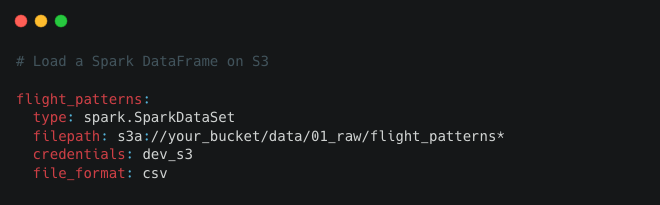
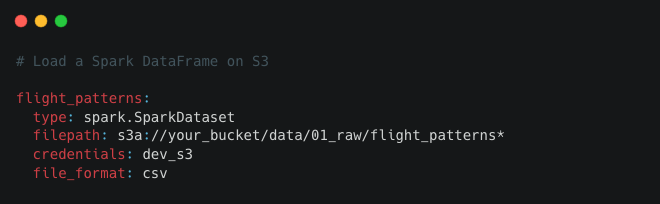
Update mention of `SparkDataSet` to `SparkDataset` in data catalog image (#167)
* Update data catalog image with SparkDataset

* Update link (I now get how this works 😅)

---------

diff --git a/modules/index/features/features-content.tsx b/modules/index/features/features-content.tsx
@@ -27,7 +27,7 @@ export const shownContent: FeatureProps[] = [
       {
         fallbackImg: dataCatalog1,
         source:
-          'https://carbon.now.sh/embed?bg=rgba%28187%2C187%2C187%2C0%29&t=seti&wt=sharp&l=yaml&width=660&ds=false&dsyoff=3px&dsblur=13px&wc=true&wa=false&pv=0px&ph=0px&ln=false&fl=1&fm=Hack&fs=14px&lh=133%25&si=false&es=2x&wm=false&code=%2523%2520Load%2520a%2520Spark%2520DataFrame%2520on%2520S3%250A%250Aflight_patterns%253A%250A%2520%2520type%253A%2520spark.SparkDataSet%250A%2520%2520filepath%253A%2520s3a%253A%252F%252Fyour_bucket%252Fdata%252F01_raw%252Fflight_patterns*%250A%2520%2520credentials%253A%2520dev_s3%250A%2520%2520file_format%253A%2520csv',
+          'https://carbon.now.sh/embed?bg=rgba%28187%2C187%2C187%2C0%29&t=seti&wt=sharp&l=yaml&width=660&ds=false&dsyoff=3px&dsblur=13px&wc=true&wa=false&pv=0px&ph=0px&ln=false&fl=1&fm=Hack&fs=14px&lh=133%25&si=false&es=2x&wm=false&code=%2523%2520Load%2520a%2520Spark%2520DataFrame%2520on%2520S3%250A%250Aflight_patterns%253A%250A%2520%2520type%253A%2520spark.SparkDataset%250A%2520%2520filepath%253A%2520s3a%253A%252F%252Fyour_bucket%252Fdata%252F01_raw%252Fflight_patterns*%250A%2520%2520credentials%253A%2520dev_s3%250A%2520%2520file_format%253A%2520csv',
         style: {
           border: 0,
           height: '204px',
